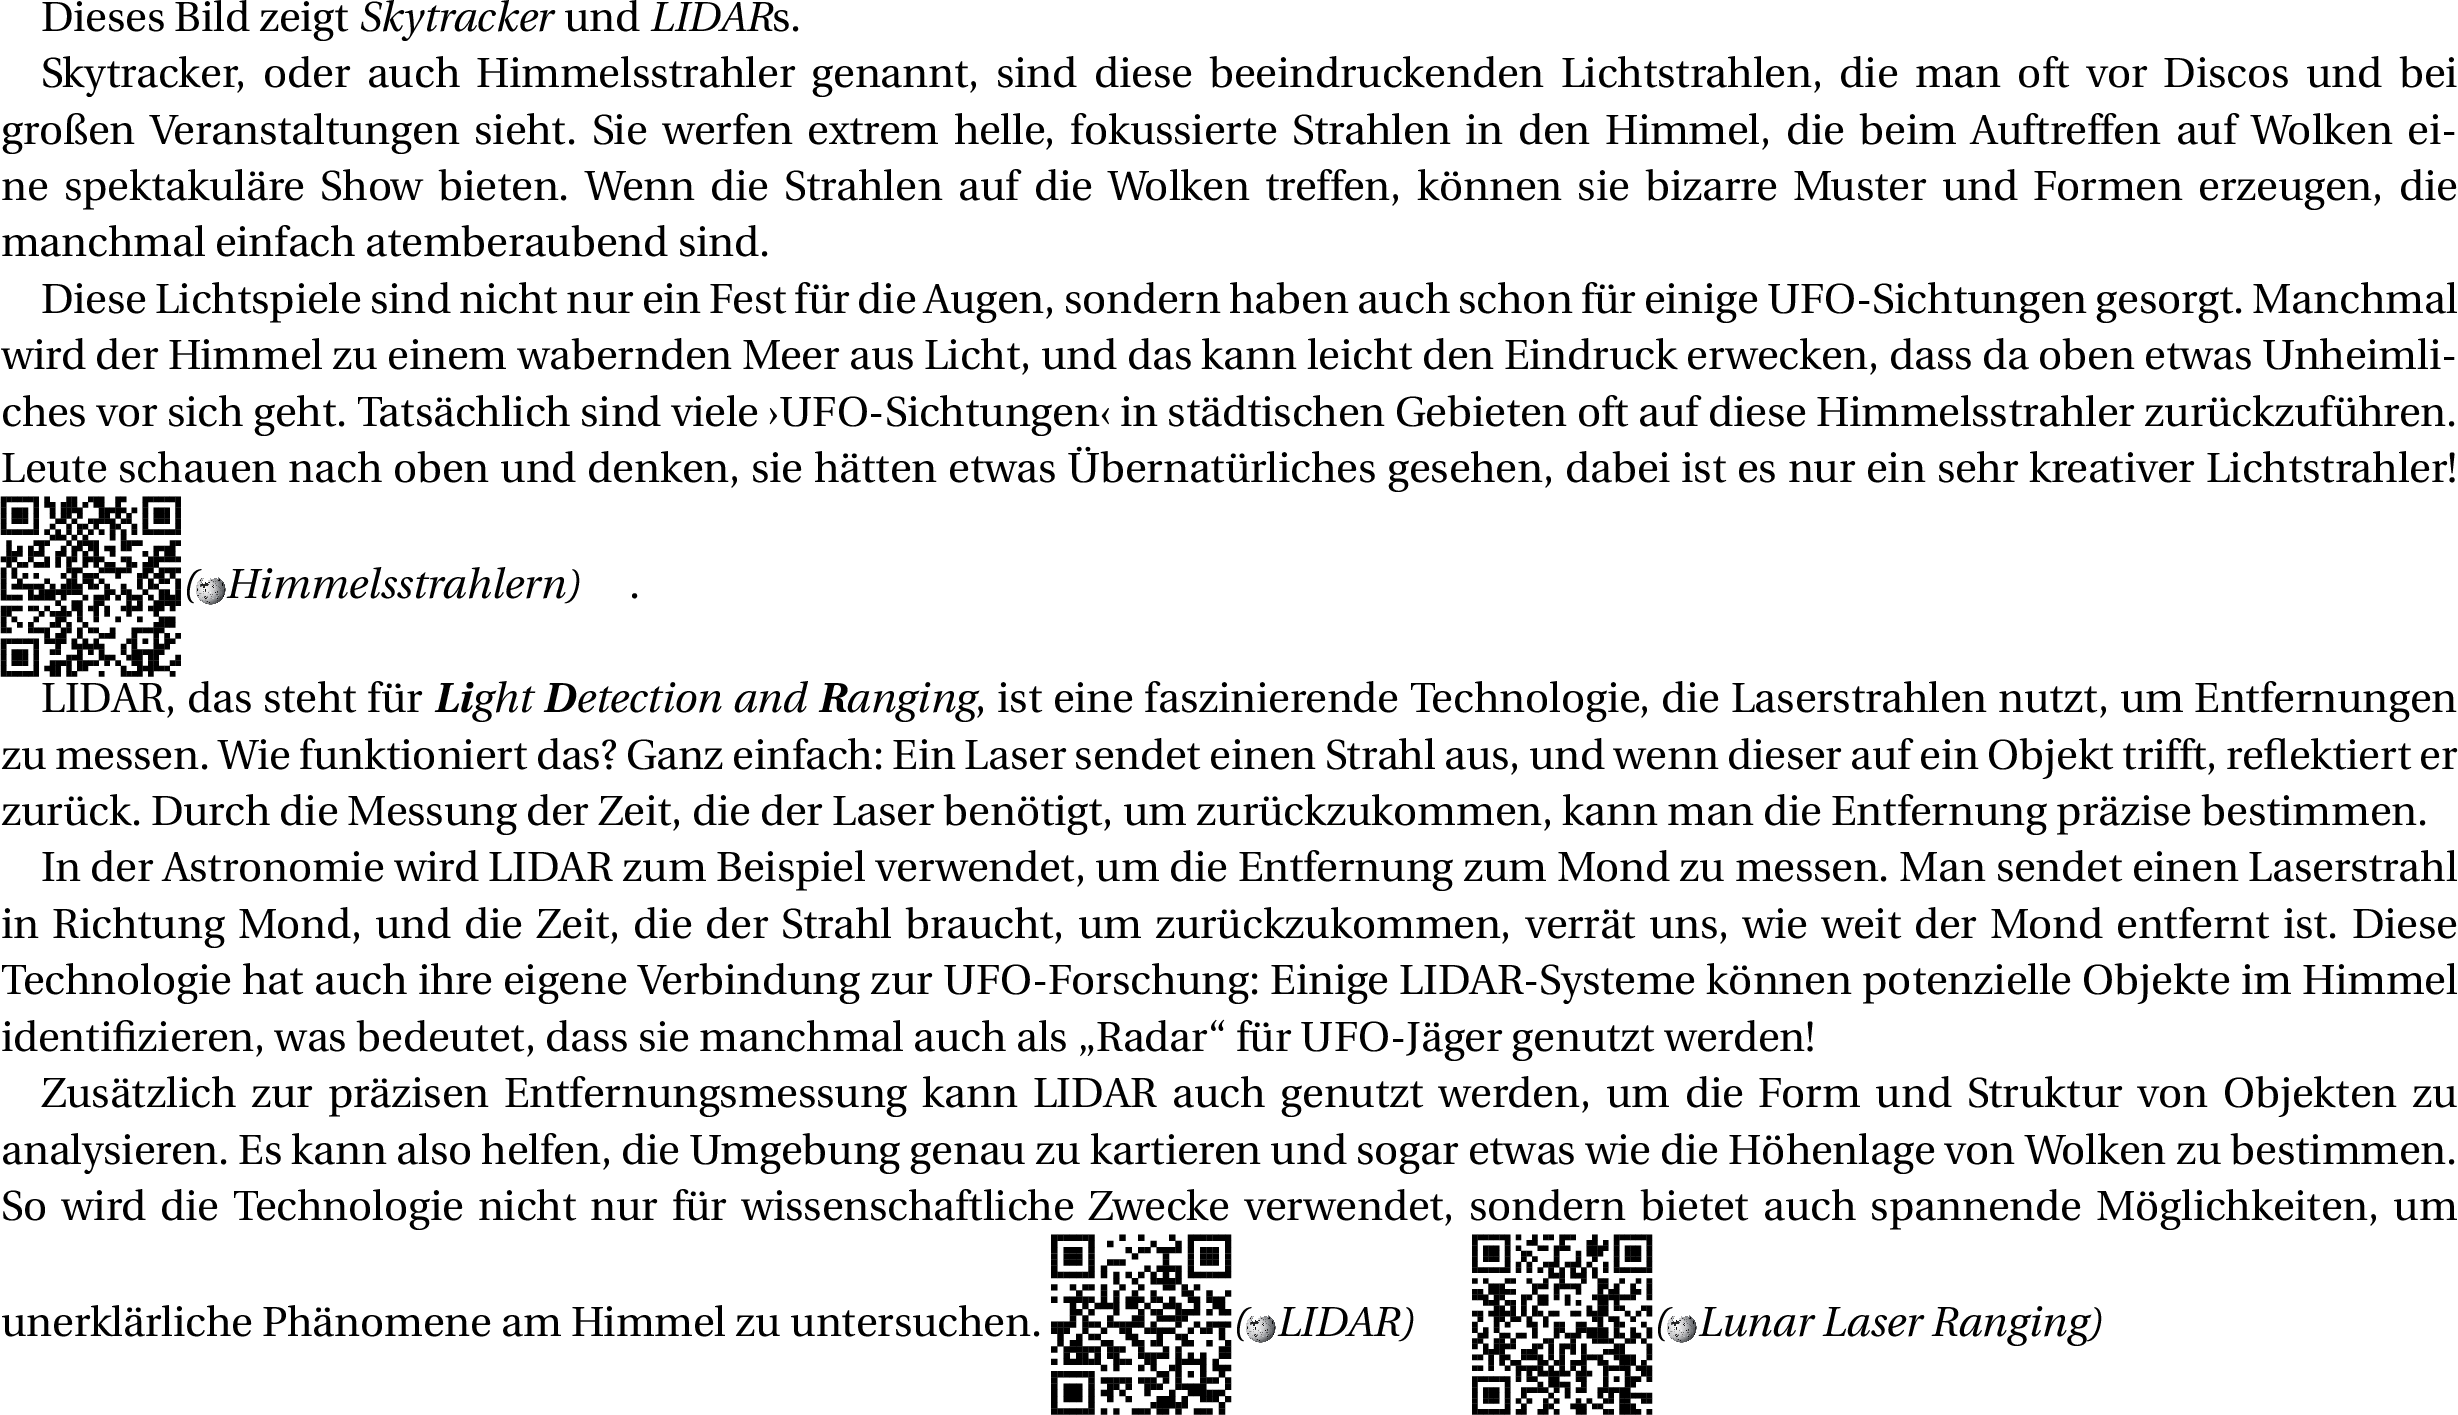
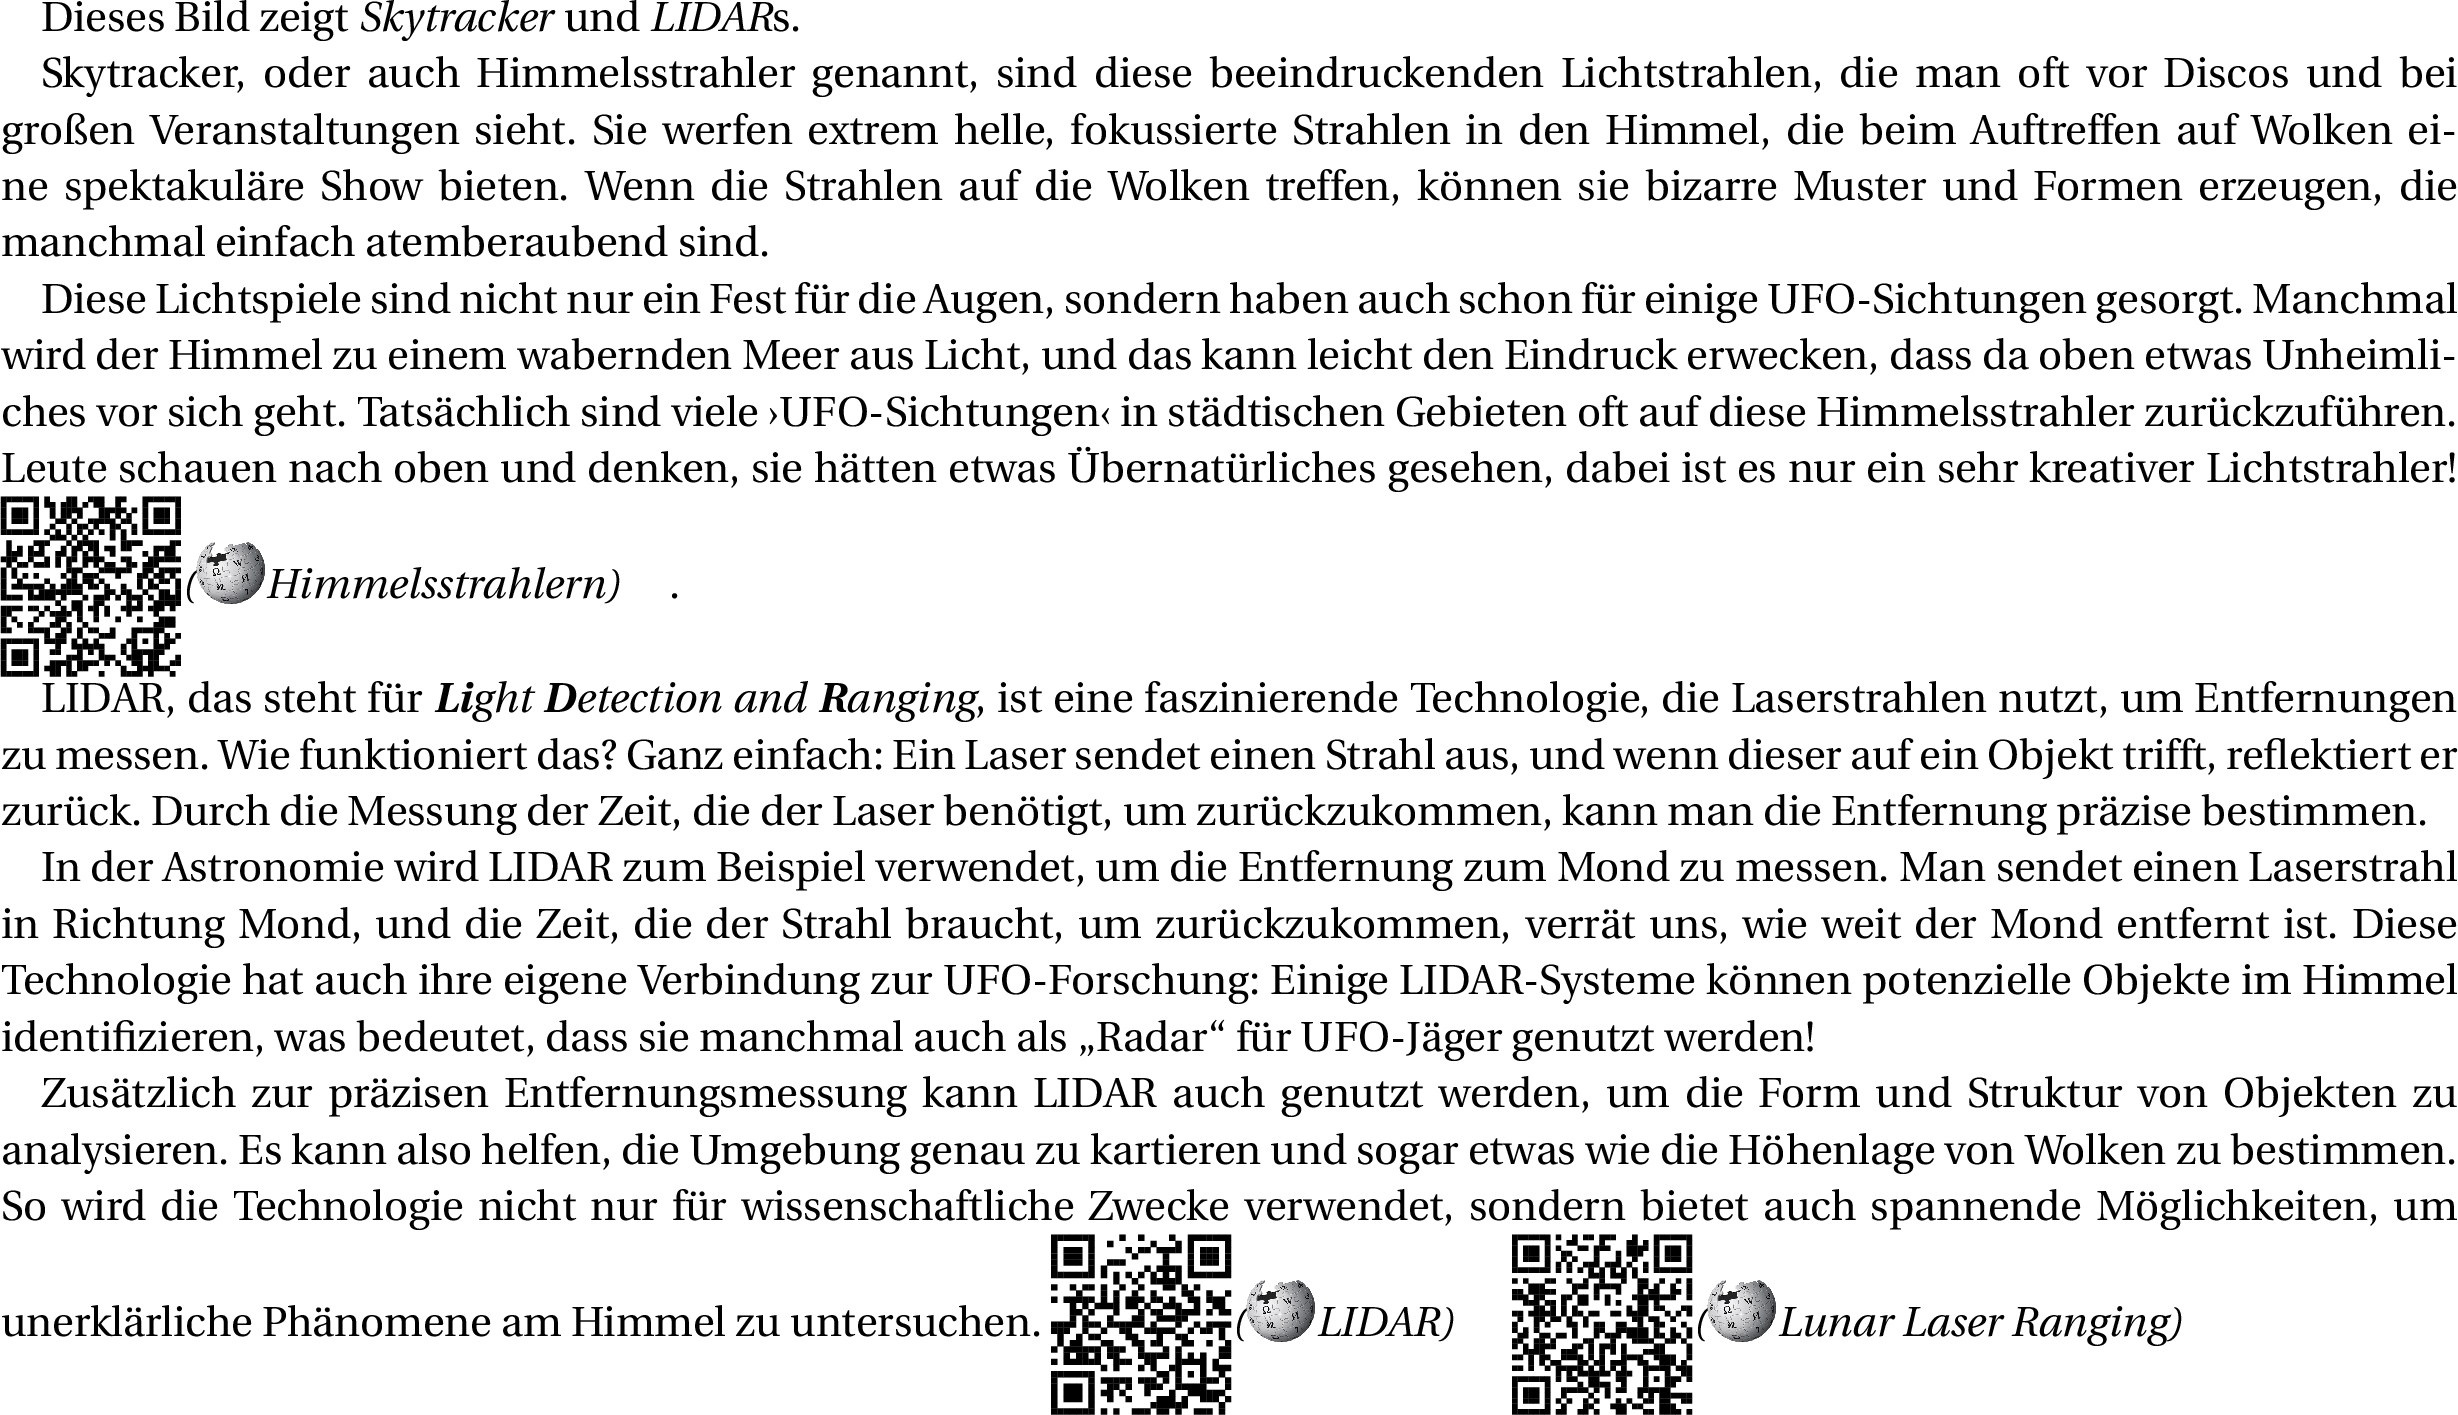
fix

Changed region(s): [[0.4947, 0.8707, 0.8967, 1.0], [0.0618, 0.3731, 0.2474, 0.4353]]

diff --git a/poster/header.tex b/poster/header.tex
@@ -52,4 +52,4 @@
     paperheight=29.7cm % Höhe der Seite (A4)
 }
 
-\newcommand{\wikipedia}{\raisebox{-0.3ex}{\includegraphics[height=1.5ex]{../wiki.png}}}
+\newcommand{\wikipedia}{\raisebox{-0.3ex}{\includegraphics[height=3.5ex]{../wiki.png}}}
